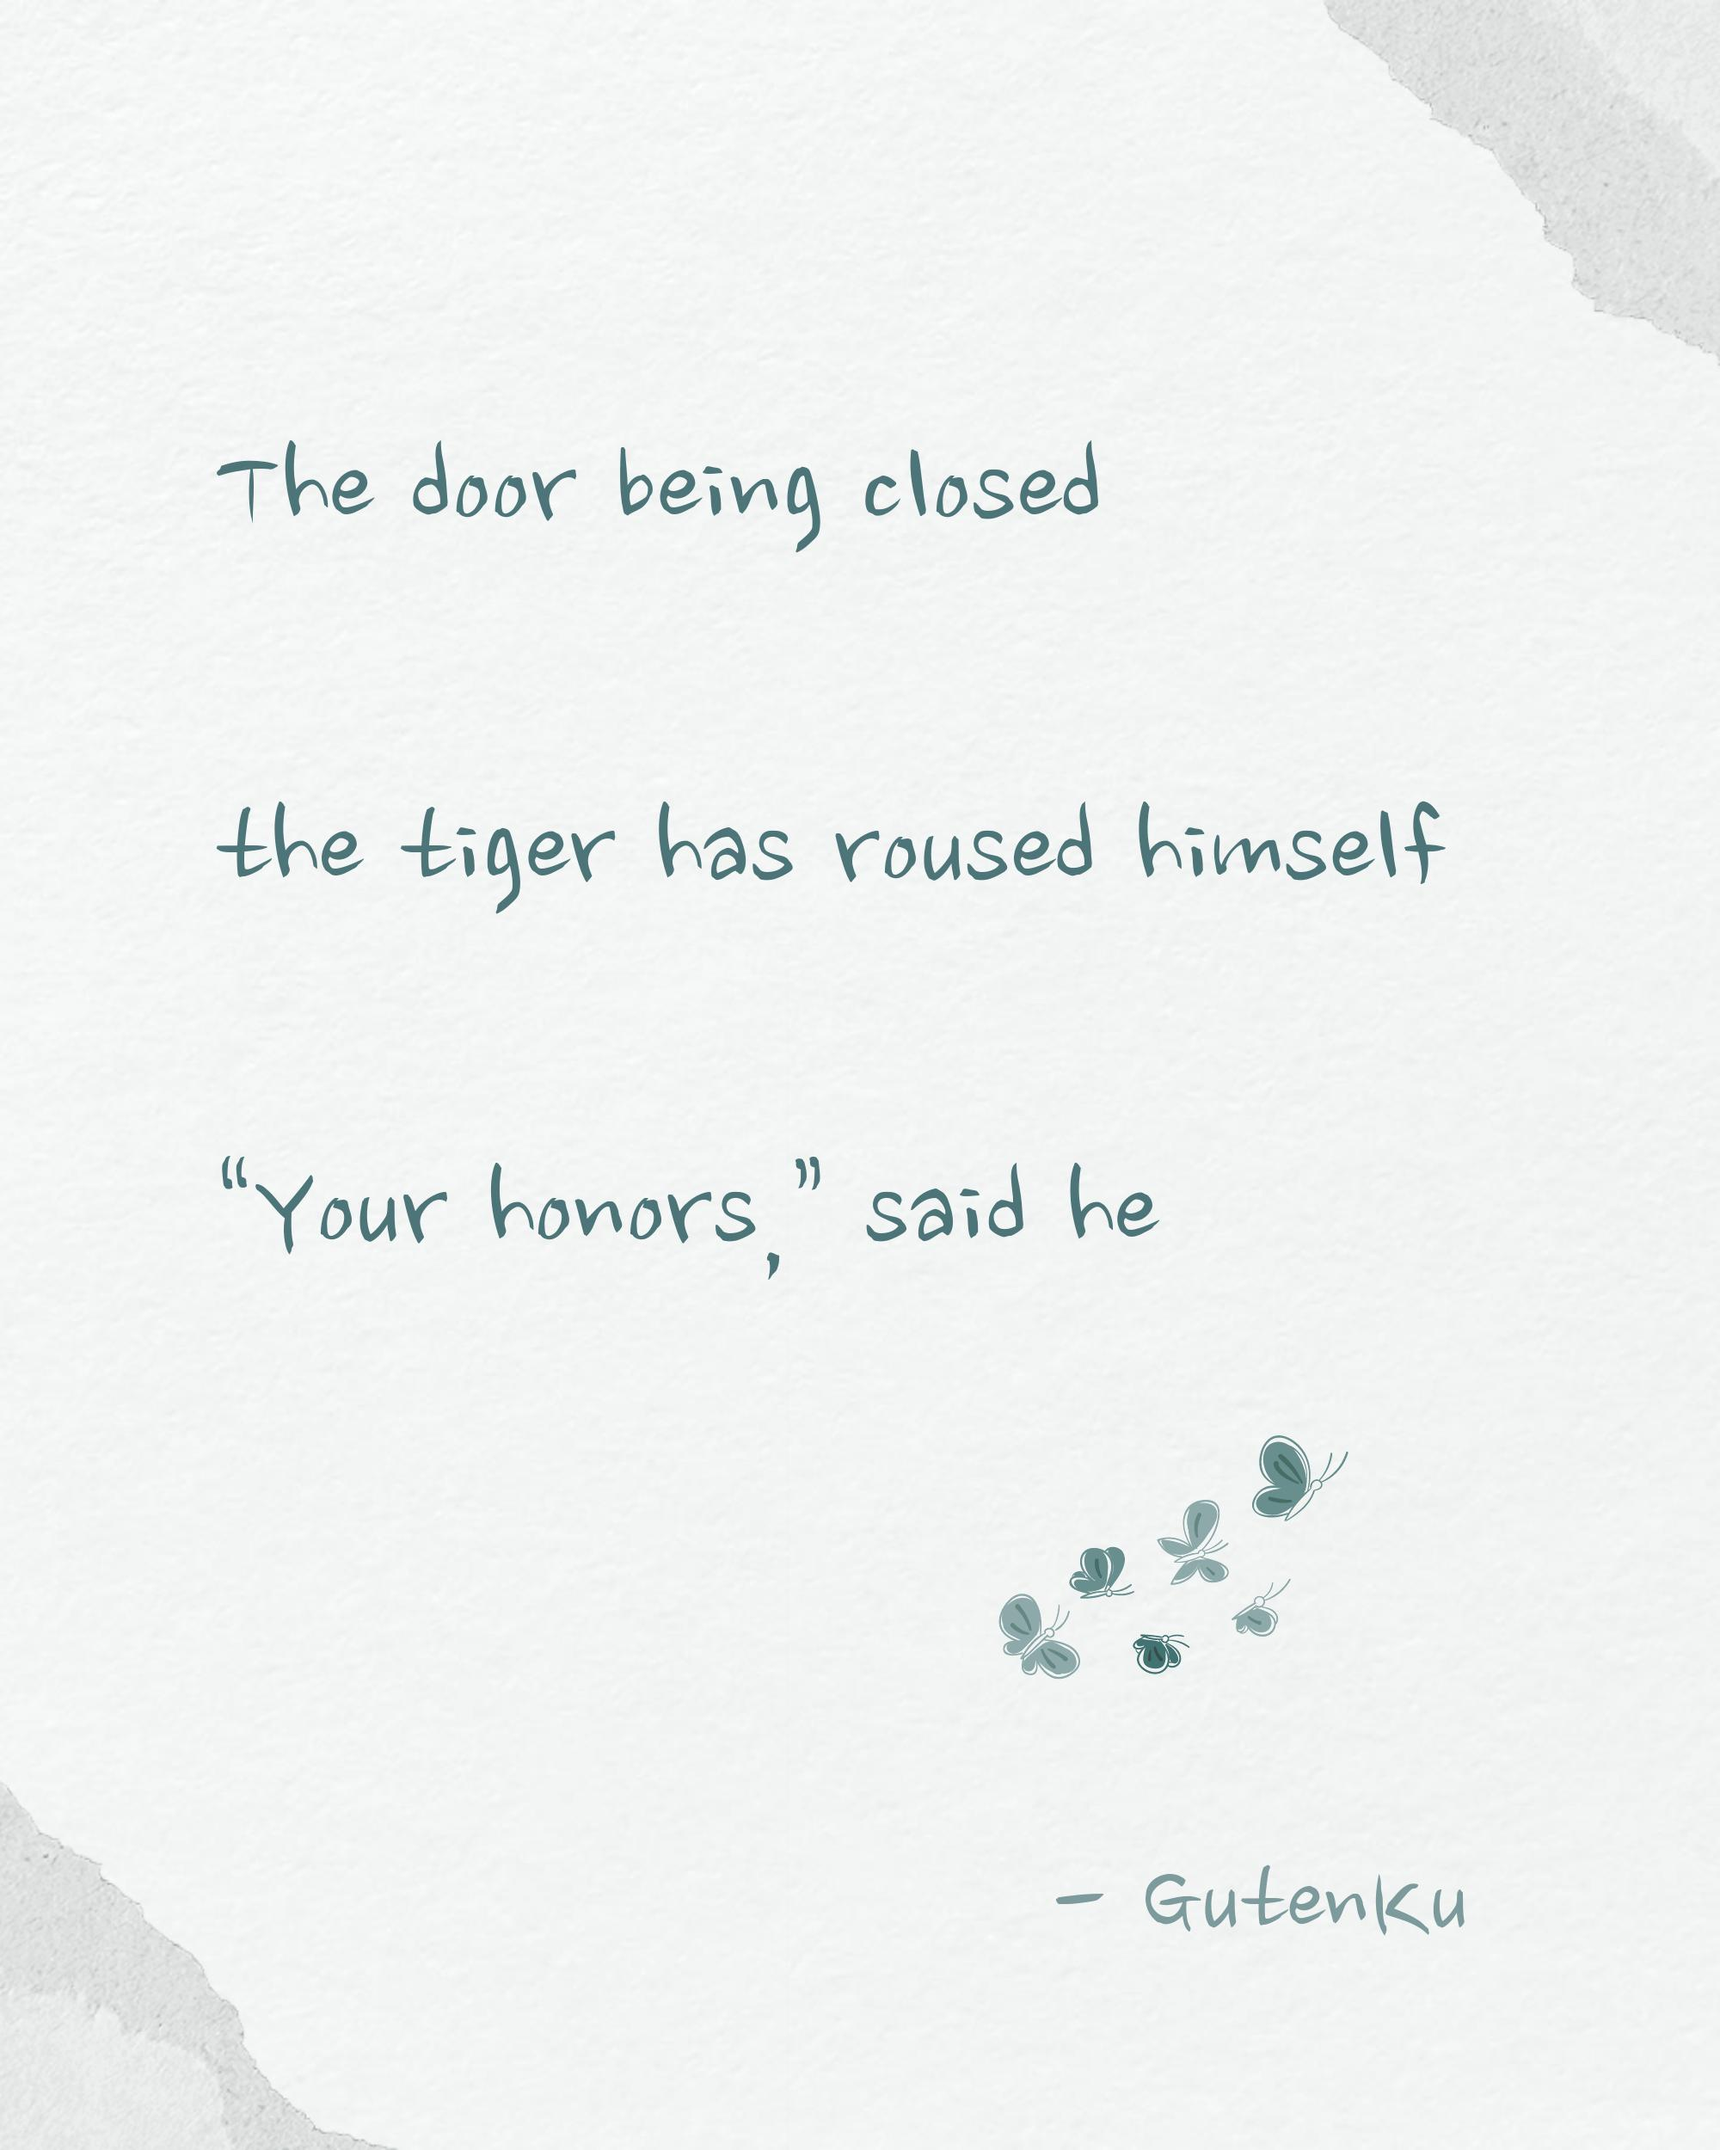
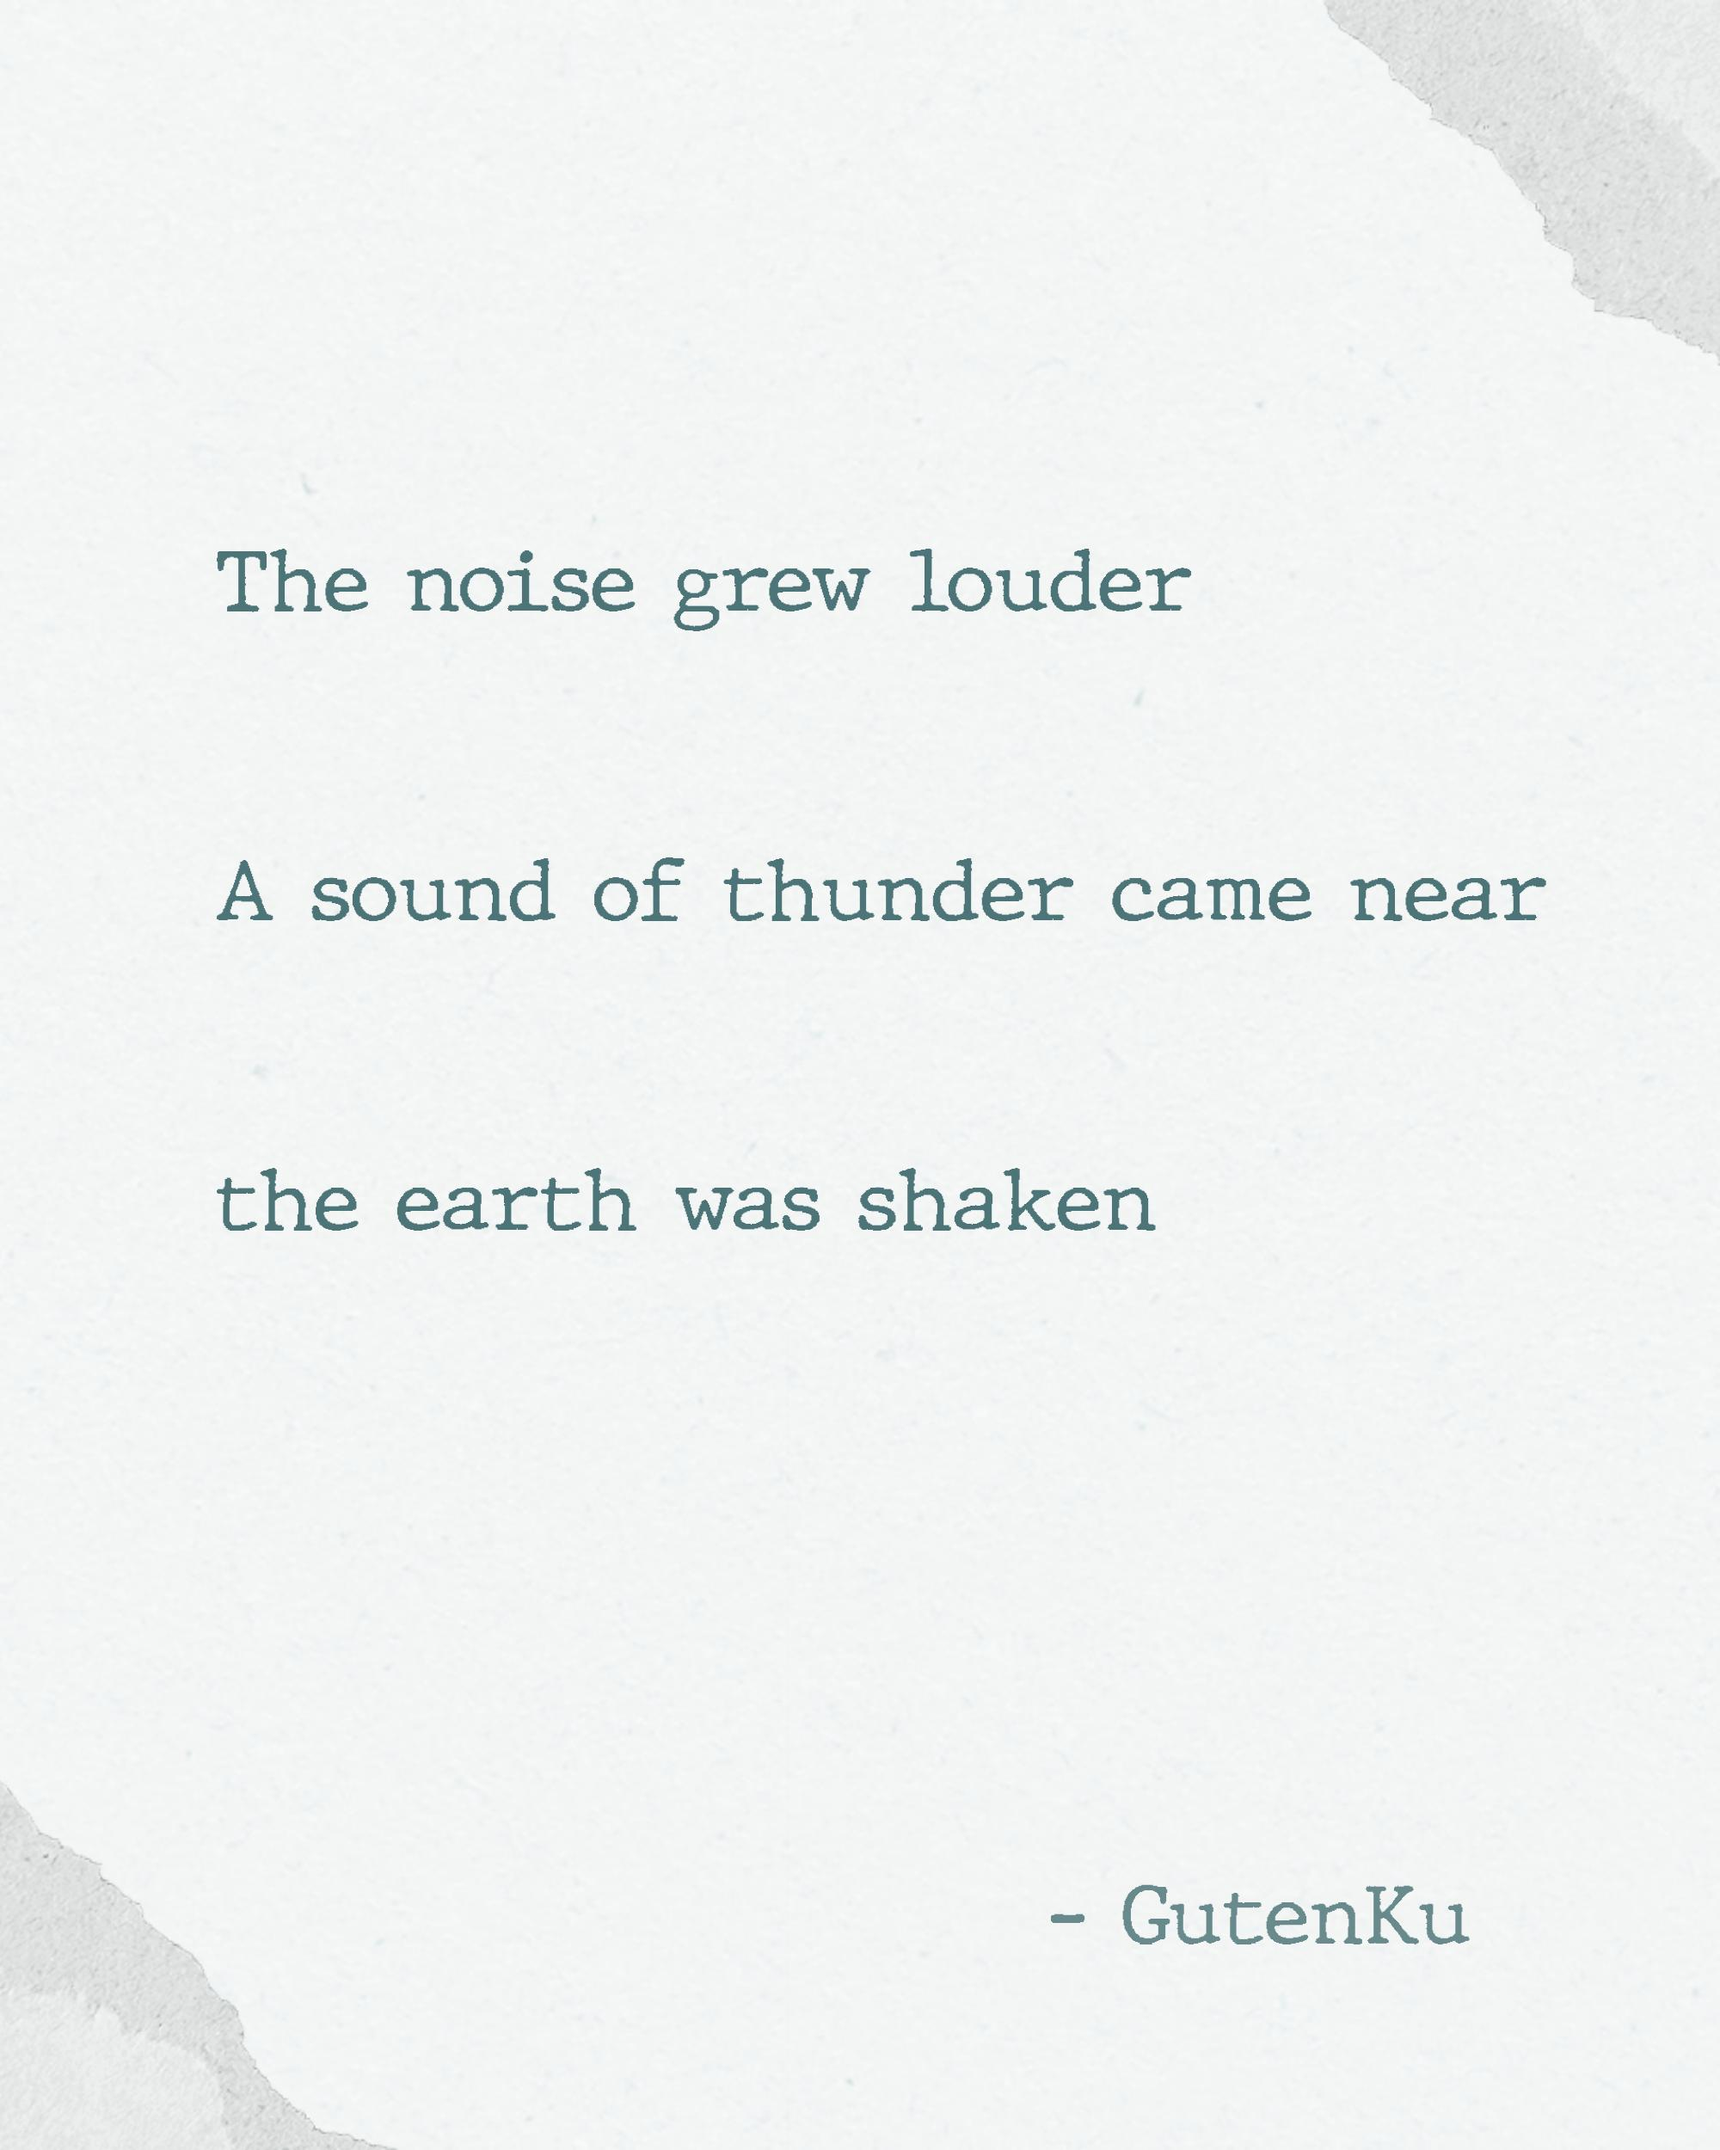
docs(readme): updated daily haiku card

diff --git a/README.md b/README.md
@@ -25,13 +25,13 @@
 <table>
 <tr>
 <td width="300" valign="top">
-<img src="/assets/img/daily_haiku_card.jpg?t=1787824838" width="280" alt="Daily Haiku Card">
+<img src="/assets/img/daily_haiku_card.jpg?t=1787911237" width="280" alt="Daily Haiku Card">
 </td>
 <td valign="top">
 
-> _"This haiku creates a tense and slightly playful moment. The image of a closed door suggests confinement, stillness, or a boundary, but the tiger’s awakening introduces sudden energy and latent power. Tigers often symbolize strength, danger, and wild instinct, so “has roused himself” implies that something formidable has been stirred into action. The final line, “Your honors,” said he, adds an unexpected touch of politeness and irony, as if this powerful creature is speaking with formal respect. This contrast between the fierce tiger and the courteous address gives the poem a witty, almost theatrical quality, blending menace with humor. Overall, the haiku captures the idea that quiet can hide great force, and that appearances can shift in surprising ways."_
+> _"This haiku creates a strong sense of tension and power as the noise steadily increases, leading to the sudden arrival of thunder. The phrase "the earth was shaken" suggests that the event is not only heard but deeply felt, making nature seem dramatic and overwhelming. The poem captures a moment of anticipation and force, using simple language to build a vivid image of a storm’s intensity."_
 
-— **BotenKu** 📅 _Aug 27, 2026_
+— **BotenKu** 📅 _Aug 28, 2026_
 
 </td>
 </tr>
